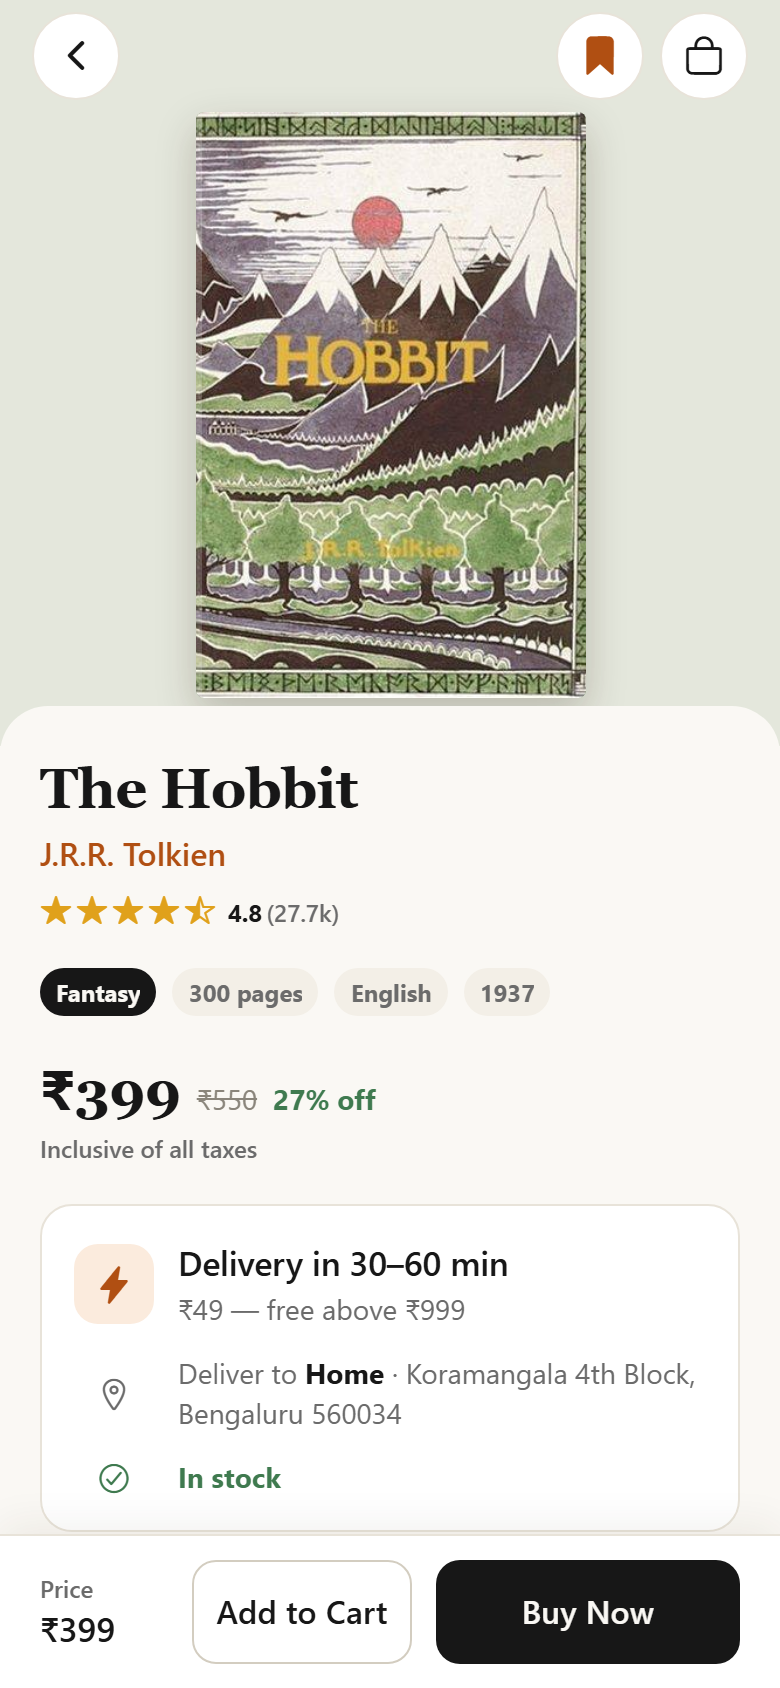
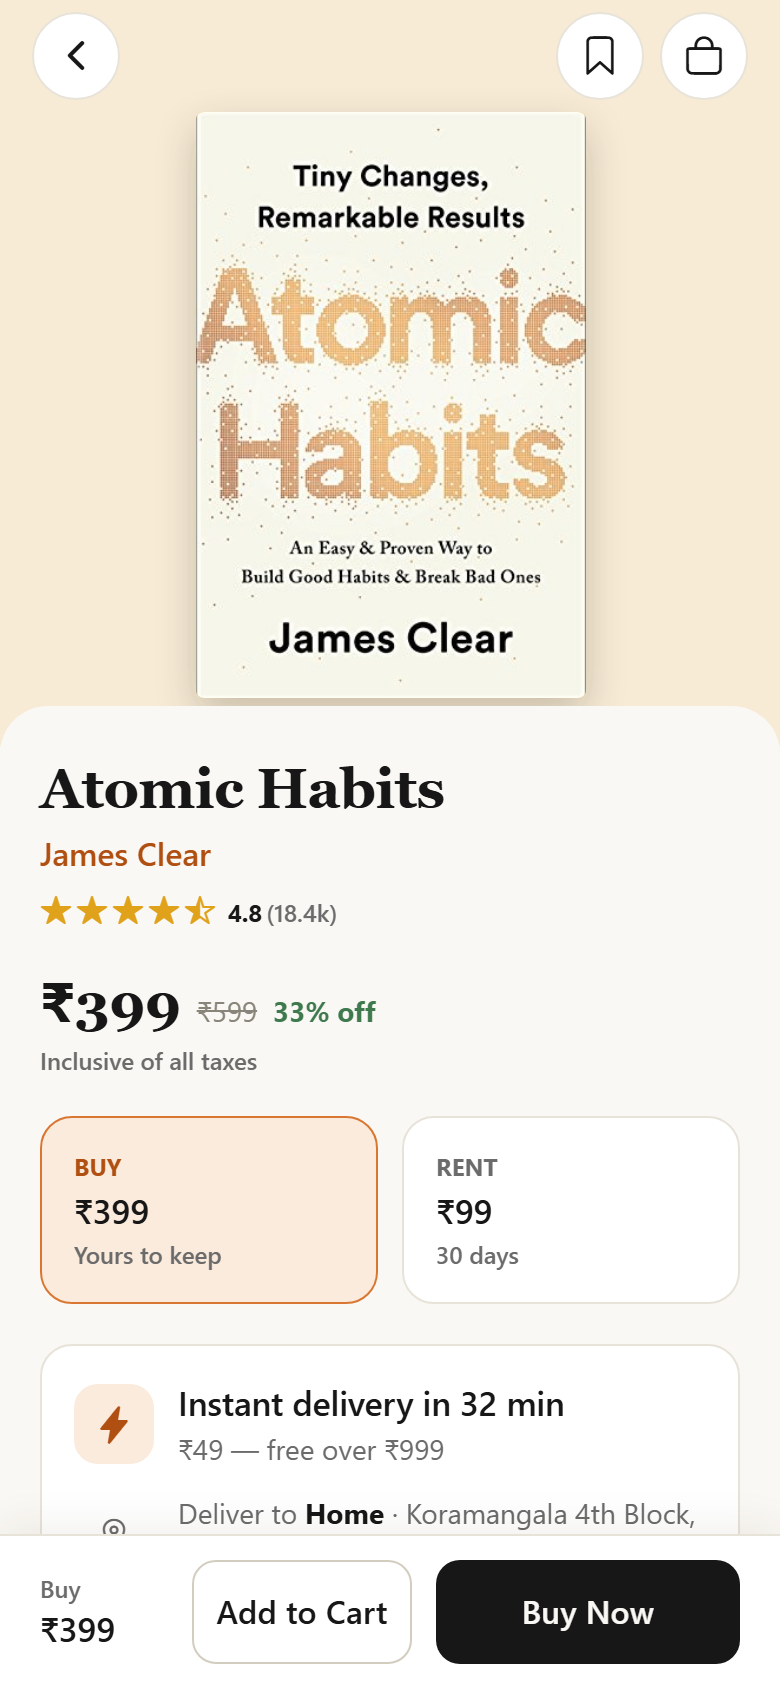
docs: describe BookRush as quick commerce for books
The readme and architecture notes described a book app with commerce and
community as equal halves. They now lead with the actual product — find a
book, check availability, buy or rent, get it delivered — and explain the
delivery union, the rental model and how community feeds back into it.

diff --git a/docs/frontend-system-design.md b/docs/frontend-system-design.md
@@ -5,9 +5,14 @@ the layering, where state lives, and the boundary between the UI and the data it
 
 ## Overview
 
-BookRush is a book app with two halves that share a catalogue. One half is commerce — find a
-book, order it, watch it arrive. The other is social — see what other readers are posting, join
-a club, talk about what you're reading.
+BookRush is quick commerce for books. The core loop is: find a book, see whether a store near
+you has a copy, buy or rent it, and get it delivered — instantly when it is stocked nearby,
+otherwise on standard shipping. Everything else in the app exists to feed that loop.
+
+A reader community sits alongside it. It is a real part of the product, not a bolt-on, but it
+is deliberately secondary: its job is to help people find books they can then order, so posts
+reference books and those references link straight into the same detail screen search would
+reach.
 
 There is no backend. Data comes from a local mock service layer that imitates a network: it
 adds latency, throws typed errors, and can be switched into a failing state from Settings. The
@@ -16,34 +21,91 @@ while keeping the seam where an API would go.
 
 ## Product scope
 
-The commerce flow:
+Two domains, one catalogue:
 
 ```
-Authentication
-     ↓
+                    BookRush
+                       │
+          ┌────────────┴────────────┐
+          │                         │
+    BOOK COMMERCE            READER COMMUNITY
+          │                         │
+   ┌──────┴──────┐            ┌─────┴─────┐
+   │             │            │           │
+Discovery     Delivery       Feed       Clubs
+   │             │
+Buy / Rent   Instant /
+             Standard
+                 │
+              Orders
+                 │
+             Tracking
+```
+
+The primary flow:
+
+```
 Home / Discover
-     ↓
-Book details
-     ↓
-Cart
-     ↓
-Checkout
-     ↓
+      ↓
+Search or browse
+      ↓
+Book details  ──  availability · price · buy or rent
+      ↓
+Cart  ──  grouped by delivery speed
+      ↓
+Checkout  ──  address · delivery · payment
+      ↓
+Order confirmed
+      ↓
 Order tracking
 ```
 
-The community flow:
+Community feeds back into it rather than running parallel:
 
 ```
-Home
-  ↓
-Community feed
-  ↓
-Posts · Book clubs
+Community post
+      ↓
+Referenced book (price + ETA shown inline)
+      ↓
+Book details
+      ↓
+Buy / rent
 ```
 
-Both start from the tab bar, and books link across: a post can reference a book, which opens
-the same detail screen you'd reach from search.
+## Delivery and acquisition model
+
+Two decisions shape most of the commerce UI, so both live on the book itself rather than being
+worked out at checkout.
+
+**How fast it can arrive** is a tagged union:
+
+```ts
+type DeliveryOption =
+  | { type: 'INSTANT'; etaMinutes: number }
+  | { type: 'STANDARD'; etaText: string }
+  | { type: 'UNAVAILABLE' };
+```
+
+`INSTANT` carries its own ETA because it depends on which nearby store holds the title — in the
+sample catalogue those range from 19 to 55 minutes. Making it a union rather than a boolean
+means the "unavailable" case can't be forgotten, and every screen renders it through one
+component (`DeliveryAvailability`), so `⚡ 32 min` means the same thing on a card, in search
+results, on the detail screen and in the cart.
+
+**How you get it** is buy or rent. Rentals are optional per title (`rental?: { price,
+durationDays }`), so sale-only books simply don't show the picker. The chosen mode rides on the
+cart line, which is what makes the price, the order summary and the order history line differ.
+
+A basket can mix both fulfilment types. Rather than forcing a single speed, the cart splits
+into groups and checkout only offers instant when every item qualifies:
+
+```
+canDeliverInstant(items)  → every item is INSTANT
+splitByDelivery(items)    → { instant: [...], standard: [...] }
+instantEtaRange(items)    → slowest item + a 10 min picking buffer
+```
+
+The slowest item decides the quote because one rider collects the whole order.
 
 ## Architecture
 
@@ -85,8 +147,9 @@ src/
     feedback/             AsyncBoundary, ToastHost
     navigation/           the custom tab bar
     brand/                wordmark
-  features/               auth, home, discover, books, cart, checkout,
-                          orders, community, profile, addresses
+  features/               commerce:  home, discover, books, cart,
+                                     checkout, orders, addresses
+                          supporting: community, profile, auth
   services/               mock API + query client/keys
   stores/                 Zustand stores
   data/                   sample catalogue, users, posts, clubs, orders
@@ -157,7 +220,7 @@ Adding to cart — no network involved, so it doesn't go through Query at all:
 
 ```
 AddToCartButton
-      ↓ add(book)
+      ↓ add(book, mode)      ← 'buy' or 'rent'
 cartStore (Zustand)
       ↓
 persisted to AsyncStorage
@@ -326,16 +389,18 @@ No benchmarks were run. These are structural choices, not measured wins.
 ## Testing
 
 ```
-Pure logic        pricing rules, delivery eligibility, currency formatting, status helpers
+Pure logic        pricing (buy vs rent), instant eligibility, basket splitting, ETA quoting,
+                  currency formatting, order status helpers
 State             cart store — merging, stock caps, selectors
 Services          search ranking, filters, pagination, 404s, offline, the order clock
-Components        Button, QuantityStepper, BookCard, AddToCartButton
-Flows             cart screen (totals, quantity, remove + undo), login validation,
-                  post like/save/follow
+Components        Button, QuantityStepper, BookCard, DeliveryAvailability, AddToCartButton
+Flows             cart screen (totals, quantity, remove + undo, mixed-delivery grouping,
+                  buy↔rent switching), login validation, post like/save/follow
 ```
 
-58 tests. The bias is toward logic that's easy to get wrong and expensive to notice — pricing,
-stock limits, the order state machine — plus the interactions a user would actually hit.
+66 tests. The bias is toward logic that's easy to get wrong and expensive to notice — pricing,
+delivery eligibility, stock limits, the order state machine — plus the interactions a user
+would actually hit.
 
 Reanimated, gesture handler and vector icons are mocked in `jest.setup.ts`; they need a native
 runtime and aren't what these tests are checking.
@@ -358,6 +423,15 @@ for custom native code, which this app doesn't need.
 
 **A custom tab bar.** The default one couldn't do the animated pill and the active-order dot,
 and a tab bar is small enough to own.
+
+**Delivery as a union, not a boolean.** The earlier model had `expressDelivery: boolean`, which
+could not express "available, but in 52 minutes" or "we don't stock this at all". Widening it to
+a tagged union cost a refactor across the cart, checkout and order code, but it moved
+availability into the type system: every render site has to handle the unavailable case.
+
+**One cart line per book.** Adding a book you already have as a rental switches that line's mode
+rather than creating a second line. Allowing both at once would mean keying the cart by
+book-and-mode and complicating every quantity and removal path, for a case people rarely want.
 
 **Colocated tests.** Keeping tests beside the code makes it obvious what's covered when you open
 a folder, at the cost of a slightly noisier tree than a top-level `tests/`.

diff --git a/README.md b/README.md
@@ -1,24 +1,29 @@
 # BookRush
 
-BookRush is a mobile app for discovering books, ordering them for delivery, and talking about
-them with other readers. Built with React Native, Expo and TypeScript.
+BookRush is a quick-commerce app for books. Find a book, see whether a store near you has it,
+buy or rent it, and get it delivered — instantly if it is in stock nearby, or on standard
+shipping if it isn't. A reader community sits alongside the shopping experience for working out
+what to read next.
+
+Built with React Native, Expo and TypeScript.
 
 <p align="center">
   <img src="docs/screenshots/home.png" width="24%" alt="Home" />
   <img src="docs/screenshots/book-detail.png" width="24%" alt="Book details" />
+  <img src="docs/screenshots/cart.png" width="24%" alt="Cart" />
   <img src="docs/screenshots/tracking.png" width="24%" alt="Order tracking" />
-  <img src="docs/screenshots/community.png" width="24%" alt="Community feed" />
 </p>
 
 ## Features
 
-- Browse and search books, with categories, sorting and filters
-- Book details with ratings, reviews, delivery estimate and recommendations
-- Cart and checkout, including address and delivery options
-- Order tracking with a live status timeline
-- Reader community — posts, likes, comments, and a composer
-- Book clubs with a current read and discussion
-- Profile with your shelf, reviews, posts and order history
+- Browse and search books by title, author or category
+- Per-title delivery availability — instant from a nearby store, standard shipping, or unavailable
+- Buy a book or rent it for 30 days
+- Cart that groups items by how fast they will arrive
+- Checkout with address, delivery speed and payment
+- Live order tracking with a delivery timeline
+- Order history with one-tap reorder
+- Reader community — posts, likes, comments, book clubs
 
 ## Tech stack
 
@@ -48,9 +53,12 @@ Screens compose components and call hooks; they never call services directly. An
 server-shaped (books, feed, orders) goes through TanStack Query, while client-owned state (cart,
 session, likes) lives in Zustand.
 
-[`docs/frontend-system-design.md`](docs/frontend-system-design.md) goes into the detail — how
-state is split and why, the data flow for the main screens, the navigation tree, the design
-token layering, how order tracking is simulated, and the trade-offs behind those choices.
+Delivery availability is a first-class part of the book model rather than something discovered
+at checkout, so the same badge renders on cards, search results, the detail screen and the cart.
+
+[`docs/frontend-system-design.md`](docs/frontend-system-design.md) covers the detail — the
+commerce and community domains and how they connect, how state is split, data flow for the main
+screens, the delivery and rental model, how order tracking is simulated, and the trade-offs.
 
 ## Running locally
 
@@ -78,12 +86,13 @@ npm run validate     # all three, same as CI
 
 There is no backend. Data comes from a mock service layer in `src/services` that adds latency
 and can be made to fail, so loading, empty and error states are all reachable during
-development. The service functions are shaped like API calls, so swapping in a real client
-means changing those files and nothing above them.
+development. The service functions are shaped like API calls, so swapping in a real client means
+changing those files and nothing above them.
 
-Order tracking is simulated locally: the order service stores which stage an order is in and
-advances it over time, and the tracking screen polls for updates the way it would against a
-real endpoint.
+Stock and delivery are simulated per title in the sample catalogue: some books are held by a
+nearby store with their own ETA, some ship standard only, and one is out of stock. Order
+tracking advances on a timer inside the order service, and the tracking screen polls for
+updates the way it would against a real endpoint.
 
 Two switches in **Profile → Settings** help when trying the app out — one makes every request
 fail so you can see the error states, and one resets the demo data.
